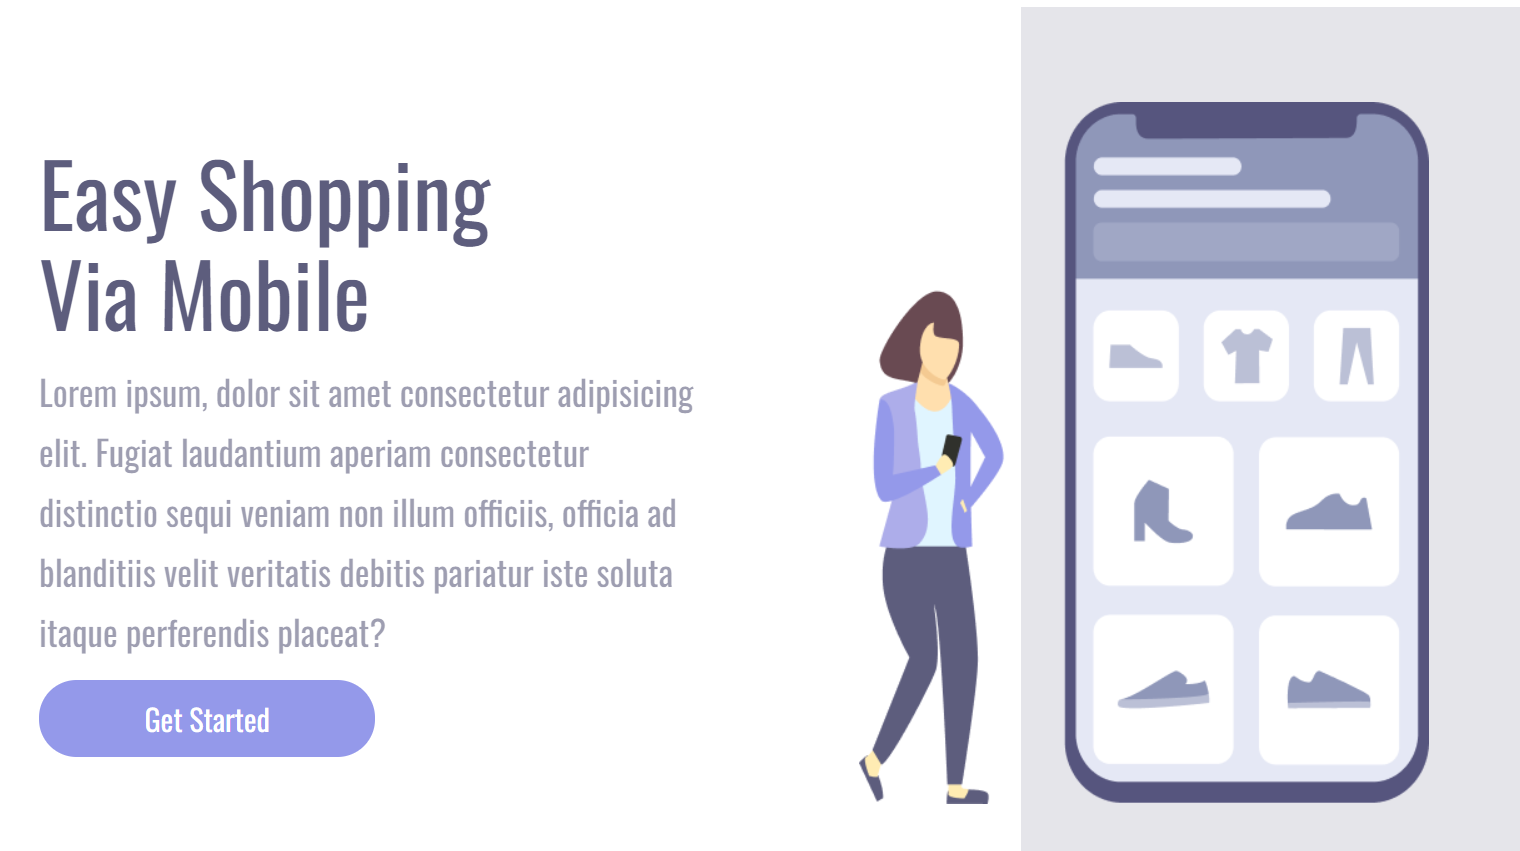
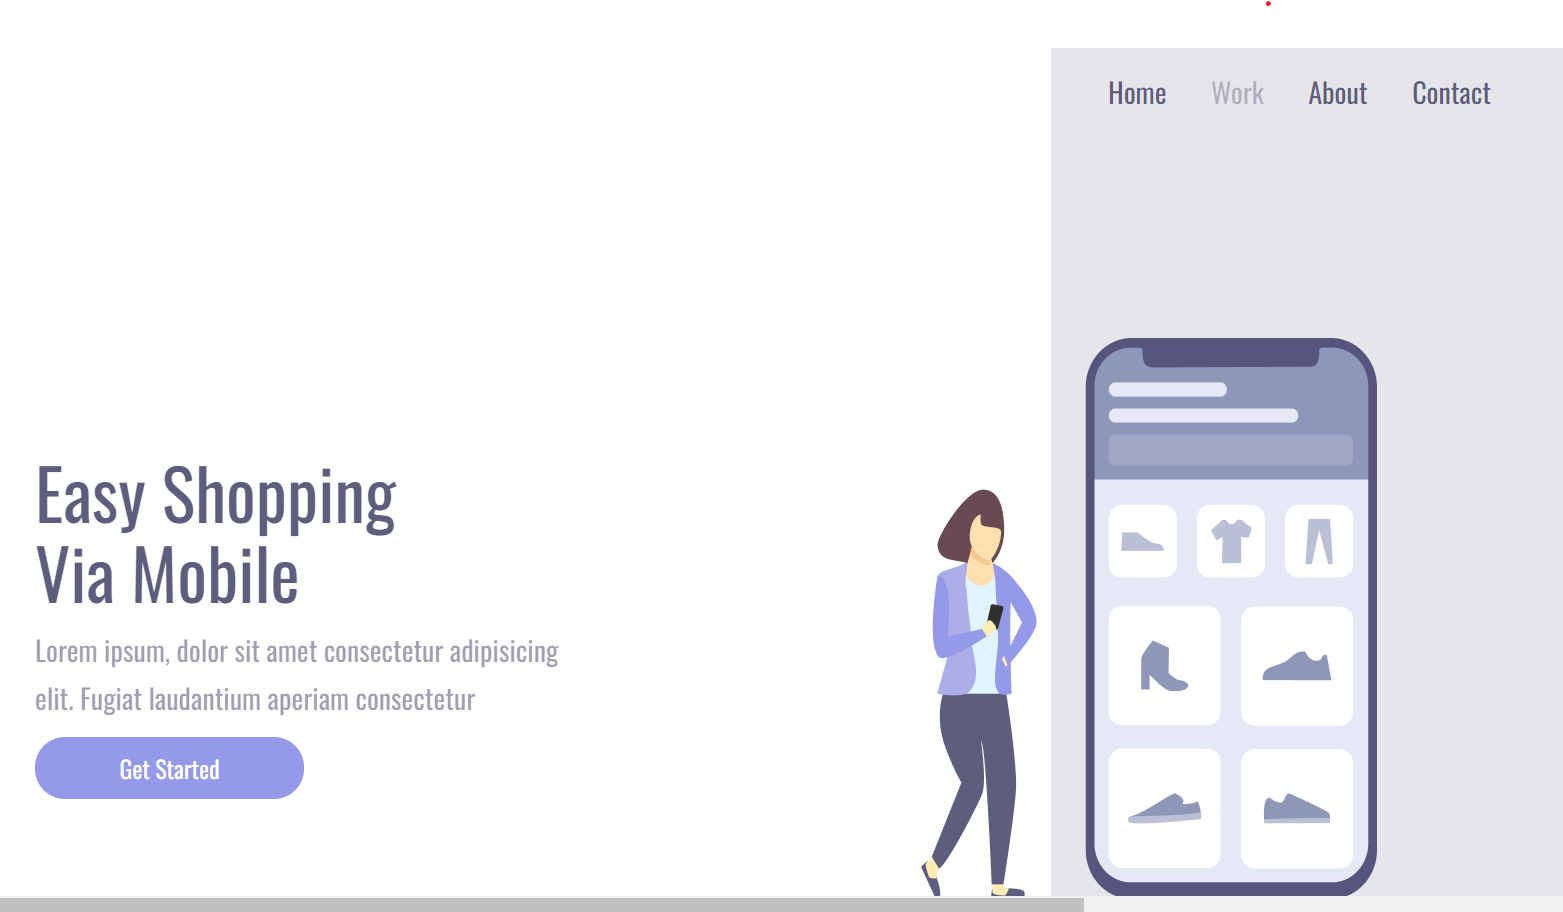
Alteração no parágrafo e imagem

diff --git a/index.html b/index.html
@@ -16,9 +16,7 @@
 
         <section class="container-left">
             <h1>Easy Shopping Via Mobile </h1>
-            <p>Lorem ipsum, dolor sit amet consectetur adipisicing elit. Fugiat laudantium aperiam consectetur
-                distinctio sequi veniam non illum officiis, officia ad blanditiis velit veritatis debitis pariatur iste
-                soluta itaque perferendis placeat?</p>
+            <p>Lorem ipsum, dolor sit amet consectetur adipisicing elit. Fugiat laudantium aperiam consectetur</p>
             <button>Get Started</button>
         </section>
 
